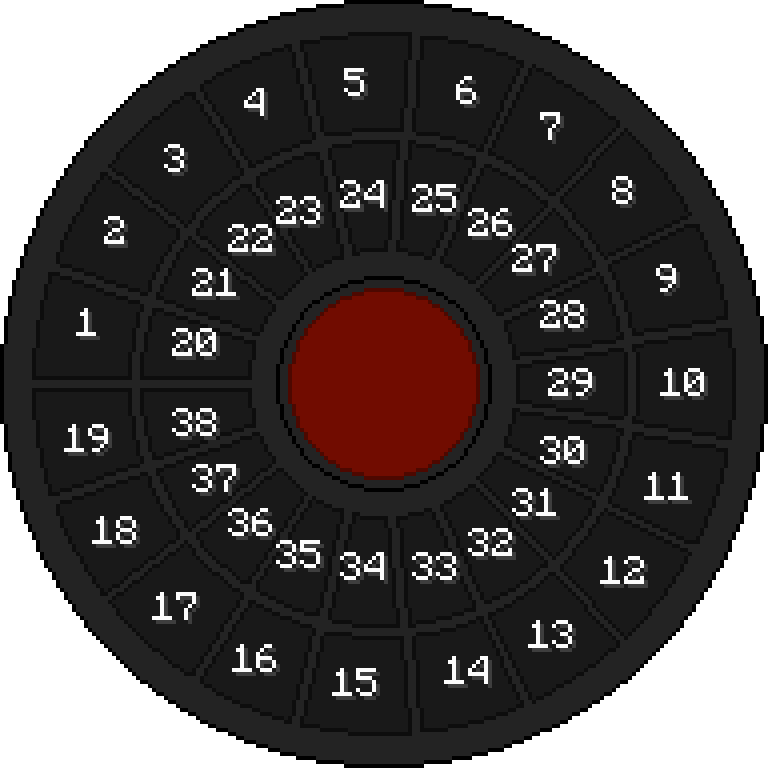
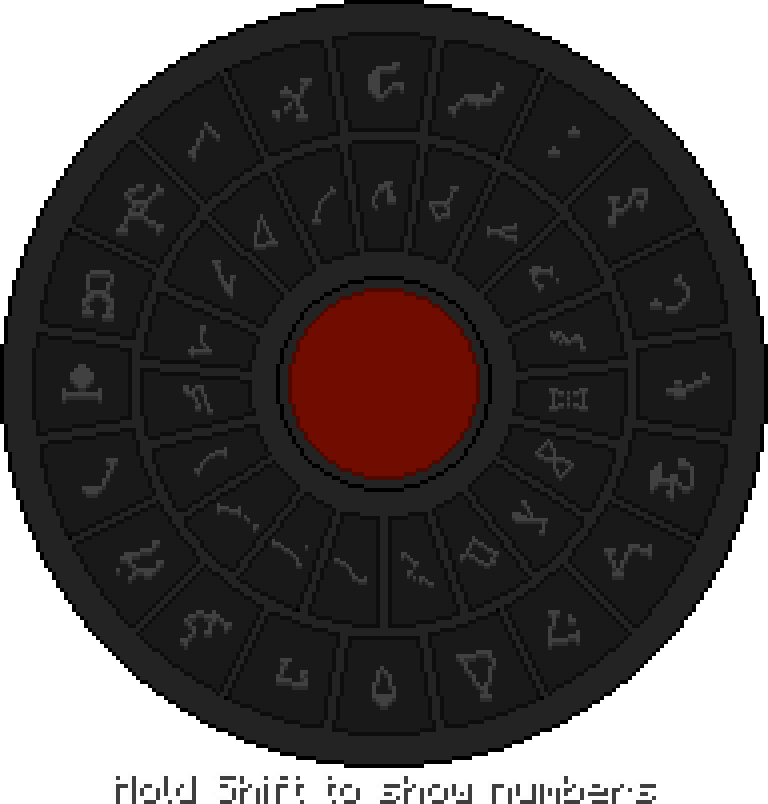
[Feat] Fix invalid links to stargate symbol images, update DHD GUI

diff --git a/stargate-technology/dhd.md b/stargate-technology/dhd.md
@@ -24,10 +24,13 @@ It allows controlling stargates, encoding symbols, dialing an address, and suppl
 
 ## Inventory
 Each DHD has a dialing user interface with symbol buttons, which can be opened by **right-clicking the DHD from the top**.
+By default, the DHD shows symbols, respective numbers are shown while holding shift.
 
-{: .future }
-In the future, the numbers will be replaced with actual symbols,
-with an option to still view numbers while holding the shift key.
+This behavior can be changed in `sgjourney-client.toml` config file.
+```toml
+#If true, DHD buttons will render symbols by default, otherwise they'll be render numbers by default
+dhd_symbols_numbers = true
+```
 
 <div class="flex-row flex-wrap">
 <img alt="Milkyway DHD interface" class="max-width-512" style="margin: 1rem"
@@ -39,7 +42,7 @@ with an option to still view numbers while holding the shift key.
 
 Secondly, it has a crystal inventory, which can be opened by **right-clicking the DHD from any side, except the top**
 (or by shift-right clicking from the top with an empty hand).
-The inventory holds crystals modifying DHD capabilities and a power source.
+The inventory holds crystals modifying DHD capabilities, Stargate behavior and a power source.
 
 
 ![Empty DHD inventory]({{ '/assets/img/gui/dhd_inventory_empty.png' | absolute_url }})
@@ -66,9 +69,12 @@ The power source slot to the right can hold **any modded container (a battery)**
 Naturally generated DHDs contain the [fusion core]({{ '/items/functional-items/fusion-core/' | absolute_url }}).
 It can be replaced with the [naquadah generator core]({{ '/items/functional-items/naquadah-generator-core/' | absolute_url }}),
 which requires fuel to run. The fuel can be provided in the second slot underneath the first one.
+Naquadah power cell can be used as a power source as well.
+
+[//]: # (TODO: Add link to naquadah power cell)
 
 In the creative, the [Zero Point Module (ZPM)]({{ '/items/functional-items/zpm/' | absolute_url }}) 
-can also be used as a powerful power source in the DHD.
+can also be used as a powerful power source directly in the DHD.
 
 ## Crafting
 
@@ -88,3 +94,5 @@ When the DHD with a large control crystal enables advanced protocols, the gate w
 
 See [Stargate Technology / DHD Crystals]({{ '/stargate-technology/crystals/dhd-crystals' | absolute_url }})
 for a description of specific crystals.
+
+[//]: # (TODO: explain what each crystal does when placed in DHD)

diff --git a/stargate-technology/stargate.md b/stargate-technology/stargate.md
@@ -76,19 +76,19 @@ function toggleSymbolNumbers() {
 <div class="symbols-container">
 
 MilkyWay
-<img alt="MilkyWay symbols" class="width-100 min-width-1000 pixel-image" src="https://raw.githubusercontent.com/Povstalec/StargateJourney/refs/heads/main/src/main/resources/assets/sgjourney/textures/symbols/milky_way/galaxy_milky_way.png">
+<img alt="MilkyWay symbols" class="width-100 min-width-1000 pixel-image" src="https://raw.githubusercontent.com/Povstalec/StargateJourney/7a24f017dbda18a34a5f64a5186a8ded243ececb/src/main/resources/assets/sgjourney/textures/symbols/milky_way/galaxy_milky_way.png">
 <img alt="Symbol numbers" class="symbol-numbers-img width-100 min-width-1000 pixel-image" src="{{ '/assets/img/symbol_numbers.png' | absolute_url }}">
 
 Pegasus  
-<img alt="Pegasus symbols" class="width-100 min-width-1000 pixel-image" src="https://raw.githubusercontent.com/Povstalec/StargateJourney/refs/heads/main/src/main/resources/assets/sgjourney/textures/symbols/pegasus/galaxy_pegasus.png">
+<img alt="Pegasus symbols" class="width-100 min-width-1000 pixel-image" src="https://raw.githubusercontent.com/Povstalec/StargateJourney/7a24f017dbda18a34a5f64a5186a8ded243ececb/src/main/resources/assets/sgjourney/textures/symbols/pegasus/galaxy_pegasus.png">
 <img alt="Symbol numbers" class="symbol-numbers-img width-100 min-width-1000 pixel-image" src="{{ '/assets/img/symbol_numbers.png' | absolute_url }}">
 
 Universal  
-<img alt="Universal symbols" class="width-100 min-width-1000 pixel-image" src="https://raw.githubusercontent.com/Povstalec/StargateJourney/refs/heads/main/src/main/resources/assets/sgjourney/textures/symbols/universal/universal.png">
+<img alt="Universal symbols" class="width-100 min-width-1000 pixel-image" src="https://raw.githubusercontent.com/Povstalec/StargateJourney/7a24f017dbda18a34a5f64a5186a8ded243ececb/src/main/resources/assets/sgjourney/textures/symbols/universal/universal.png">
 <img alt="Symbol numbers" class="symbol-numbers-img width-100 min-width-1000 pixel-image" src="{{ '/assets/img/universal_symbol_numbers.png' | absolute_url }}">
 
 Kaliem  
-<img alt="Kaliem symbols" class="width-100 min-width-1000 pixel-image" src="https://raw.githubusercontent.com/Povstalec/StargateJourney/refs/heads/main/src/main/resources/assets/sgjourney/textures/symbols/kaliem/galaxy_kaliem.png">
+<img alt="Kaliem symbols" class="width-100 min-width-1000 pixel-image" src="https://raw.githubusercontent.com/Povstalec/StargateJourney/7a24f017dbda18a34a5f64a5186a8ded243ececb/src/main/resources/assets/sgjourney/textures/symbols/kaliem/galaxy_kaliem.png">
 <img alt="Symbol numbers" class="symbol-numbers-img width-100 min-width-1000 pixel-image" src="{{ '/assets/img/symbol_numbers.png' | absolute_url }}">
 
 </div>